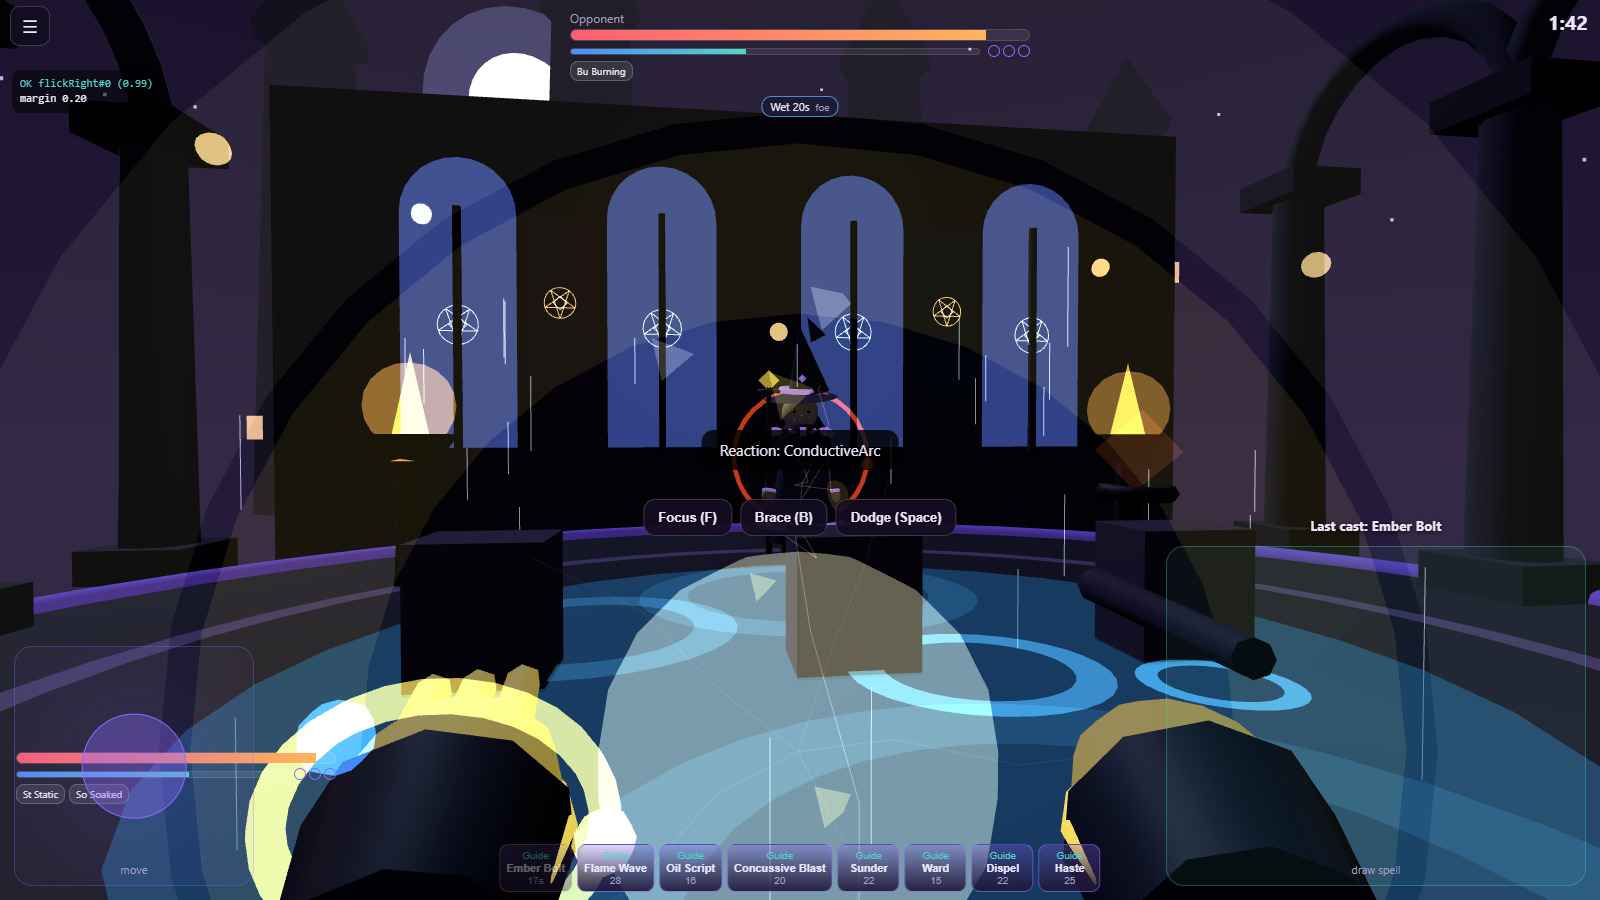
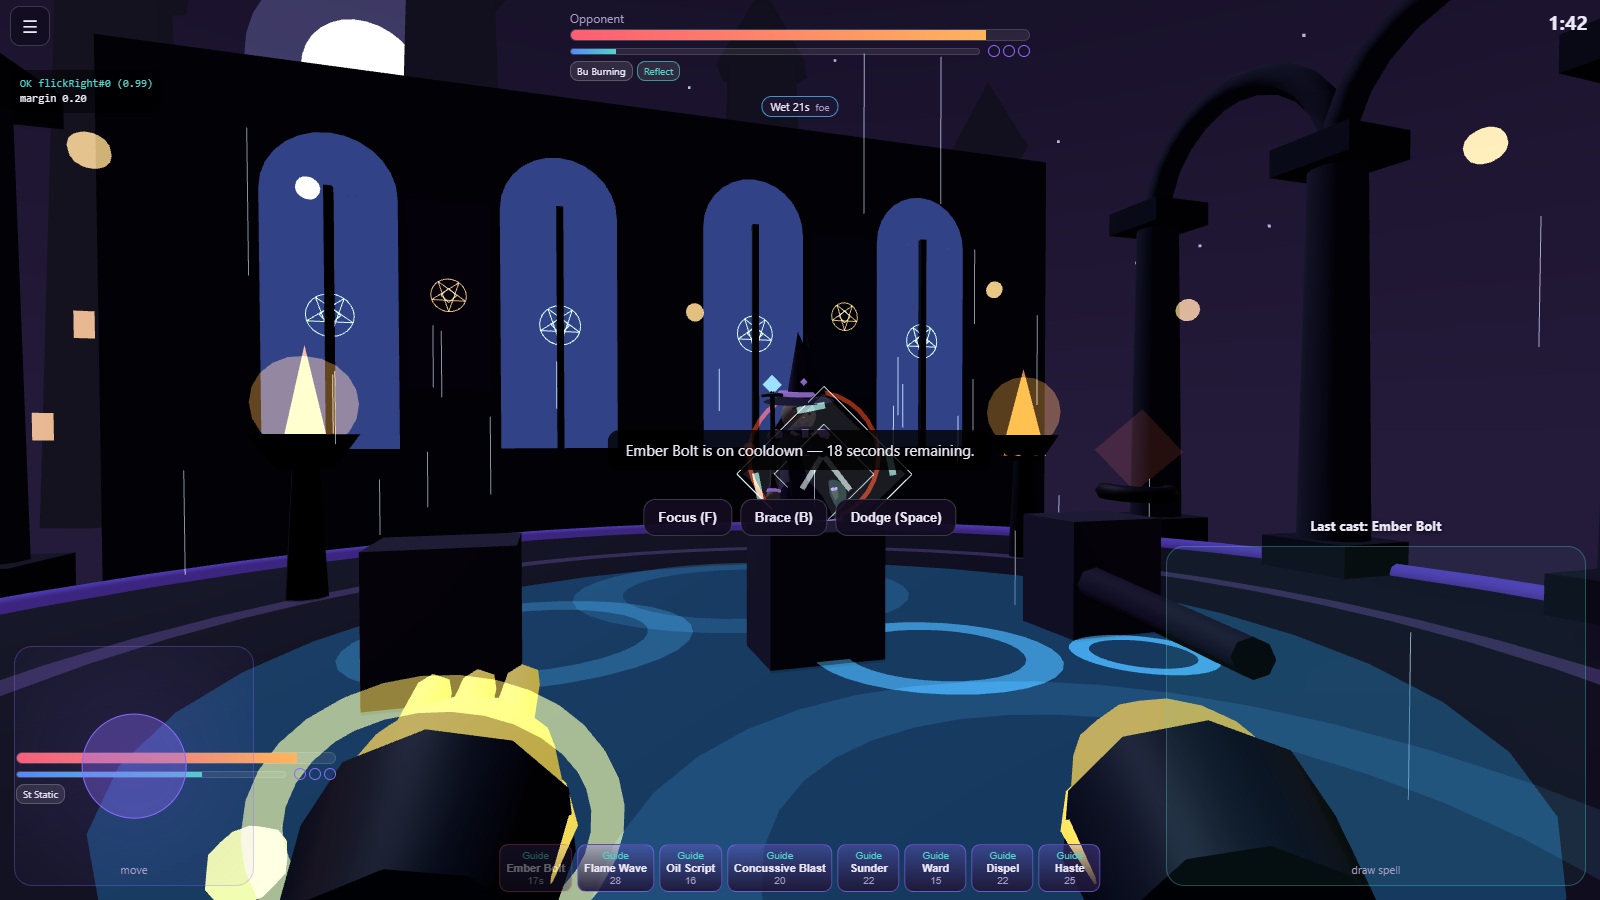
Accelerate tutorial casts and distinguish Blink
Reduce tutorial cooldowns to 35 percent, with 8 percent cooldowns for explicit repeated-cast drills. Redesign Blink as a wide horizontal-first Z and add opening-axis recognition traits so rough Blink and Quake traces remain distinct.

diff --git a/shared/src/sim/sim.js b/shared/src/sim/sim.js
@@ -84,14 +84,15 @@ export class Sim {
     this.healingDisabled = false;
     this.events = [];
     // Optional rule toggles. Defaults preserve the authoritative online/offline
-    // behaviour exactly; the solo tutorial disables the round timer and Arcane
-    // Pressure for early teaching lessons (SOLO-MODES-PLAN §4) without changing
-    // any combat resolution. `timer:false` means the round never ends on the
-    // clock; `pressure:false` means the arc never shrinks.
+    // behaviour exactly. Tutorial instances may shorten cooldowns for teaching;
+    // Practice and online omit the multiplier and therefore remain at 1.
     this.rules = {
       timer: opts.rules?.timer !== false,
       pressure: opts.rules?.pressure !== false,
       projectileTravelScale: Math.max(0.5, Math.min(4, Number(opts.rules?.projectileTravelScale) || 1)),
+      cooldownScale: Number.isFinite(Number(opts.rules?.cooldownScale))
+        ? Math.max(0.05, Math.min(1, Number(opts.rules.cooldownScale)))
+        : 1,
       sandbox: opts.rules?.sandbox === true,
       sandboxCooldowns: opts.rules?.sandboxCooldowns === true,
     };
@@ -110,6 +111,11 @@ export class Sim {
   emit(type, data) { this.events.push({ tick: this.tick, type, ...data }); }
 
   spellData(id) { return SPELLS_BY_ID[id]; }
+
+  cooldownTicks(id) {
+    const spell = this.spellData(id);
+    return spell ? sToTicks(spell.cooldown_s * this.rules.cooldownScale) : 0;
+  }
 
   hasStatus(w, name) { return !!w.statuses[name] && w.statuses[name].ticks > 0; }
 
@@ -404,7 +410,7 @@ export class Sim {
     const cost = Math.round(this.effectiveCost(w, spell));
     w.aether = Math.max(0, w.aether - cost);
     if (spell.charges) w.charges = Math.max(0, w.charges - spell.charges);
-    w.cooldowns[c.spellId] = sToTicks(spell.cooldown_s);
+    w.cooldowns[c.spellId] = this.cooldownTicks(c.spellId);
     w.recoveryTicks = sToTicks(0.15 * (1 + Math.max(0, this.moveSlow(w))));
     w.castsResolved += 1;
     w.lastActivityTick = this.tick;
@@ -758,7 +764,7 @@ export class Sim {
     if (eff.interrupt) {
       if (defender.casting) {
         this.emit('interrupt', { target: defender.id, spellId: defender.casting.spellId });
-        defender.cooldowns[defender.casting.spellId] = sToTicks(this.spellData(defender.casting.spellId).cooldown_s);
+        defender.cooldowns[defender.casting.spellId] = this.cooldownTicks(defender.casting.spellId);
         defender.casting = null;
         defender.recoveryTicks = sToTicks(CAST.rejectRecoveryS);
       }

diff --git a/shared/src/gesture/templates.js b/shared/src/gesture/templates.js
@@ -104,8 +104,9 @@ export const GESTURE_TEMPLATES = {
   circleCCW: [ // 13 Dispel — counterclockwise circle (start top, go left)
     arc(50, 50, 40, -90, -450, 24),
   ],
-  doubleStroke: [ // 14 Blink — lightning "Z" (two offset horizontals)
-    [{ x: 22, y: 26 }, { x: 64, y: 26 }, { x: 28, y: 72 }, { x: 70, y: 72 }],
+  doubleStroke: [ // 14 Blink — wide Z: right, diagonal down-left, right
+    [{ x: 10, y: 20 }, { x: 90, y: 20 }, { x: 10, y: 80 }, { x: 90, y: 80 }],
+    [{ x: 14, y: 24 }, { x: 86, y: 24 }, { x: 18, y: 76 }, { x: 88, y: 76 }],
   ],
   lowSquare: [ // 15 Stone Wall — squared U (down, across, up)
     [{ x: 16, y: 20 }, { x: 16, y: 80 }, { x: 84, y: 80 }, { x: 84, y: 20 }],
@@ -212,6 +213,13 @@ export const GESTURE_TEMPLATES = {
   ],
 };
 
+// Structural hints for pairs whose overall silhouettes can otherwise converge
+// under rough input. Blink must begin horizontally; Quake must begin vertically.
+export const GESTURE_TRAITS = {
+  doubleStroke: { startAxis: 'horizontal' },
+  quakeSlash: { startAxis: 'vertical' },
+};
+
 // Flatten into recognizer template records, tagging each with its spell id via
 // the FULL loadout gesture-key mapping so classification is spell-aware for any
 // legal online loadout (not just the starter eight).
@@ -223,7 +231,10 @@ export function buildTemplates() {
     const spellId = keyToSpellId[key];
     if (spellId == null) continue;
     variants.forEach((points, i) => {
-      records.push({ name: `${key}#${i}`, gestureKey: key, spellId, points });
+      records.push({
+        name: `${key}#${i}`, gestureKey: key, spellId, points,
+        startAxis: GESTURE_TRAITS[key]?.startAxis || null,
+      });
     });
   }
   return records;

diff --git a/test/tutorialRunner.test.js b/test/tutorialRunner.test.js
@@ -12,6 +12,7 @@ import { CAMPAIGN, CAMPAIGN_BY_ID, makeStudent } from '../client/src/tutorial/ca
 import { Recognizer } from '../shared/src/gesture/recognizer.js';
 import { buildTemplates, GESTURE_TEMPLATES } from '../shared/src/gesture/templates.js';
 import { makeLoadout } from '../shared/src/balance/loadouts.js';
+import { TICK_HZ } from '../shared/src/sim/constants.js';
 import { memoryStorage, loadProfile, defaultProfile } from '../client/src/tutorial/progress.js';
 
 function recognizerFor(lesson) {
@@ -19,7 +20,20 @@ function recognizerFor(lesson) {
 }
 
 export function run() {
-  const { ok, eq, report } = createHarness();
+  const { ok, eq, near, report } = createHarness();
+
+  // Tutorial cooldowns are intentionally shorter than duel cooldowns, with a
+  // much stronger reduction for explicit repeated-cast drills.
+  const normalLesson = new TutorialRunner('L01', { seed: 4 });
+  normalLesson.arm();
+  eq(normalLesson.sim.rules.cooldownScale, 0.35, 'ordinary tutorial lessons use 35% cooldowns');
+  const repeatLesson = new TutorialRunner('PROLOGUE', { seed: 4 });
+  repeatLesson.arm();
+  eq(repeatLesson.sim.rules.cooldownScale, 0.08, 'repeated-cast tutorial lessons use greatly reduced 8% cooldowns');
+  repeatLesson._stepOnce({ cast: 1, castQuality: 1 });
+  for (let i = 0; i < 120 && repeatLesson.sim.wizards[0].castsResolved < 1; i++) repeatLesson._stepOnce({});
+  near(repeatLesson.sim.wizards[0].cooldowns[1], Math.round(18 * 0.08 * TICK_HZ), 2,
+    'the repeated Ember drill applies the reduced cooldown in the real sim');
 
   // --- 1. every lesson is completable + no-input never completes ---------
   let scriptedOk = 0, scriptedTotal = 0, formalOk = 0, formalTotal = 0;

diff --git a/client/src/tutorial/runner.js b/client/src/tutorial/runner.js
@@ -31,14 +31,29 @@ import { CAMPAIGN_BY_ID, nextLessonId } from './campaign.js';
 
 const TICK_MS = 1000 / TICK_HZ;
 const MAX_CATCHUP = 6;
+const TUTORIAL_COOLDOWN_SCALE = 0.35;
+const REPEATED_CAST_COOLDOWN_SCALE = 0.08;
+
+function hasRepeatedCastObjective(lesson) {
+  const counts = new Map();
+  for (const objective of (lesson.objectives || [])) {
+    if (objective.expectSpell) counts.set(objective.expectSpell, (counts.get(objective.expectSpell) || 0) + 1);
+    const match = String(objective.predicate || '').match(/^(?:land|cast)-spell:\d+:(\d+)$/);
+    if (match && Number(match[1]) >= 2) return true;
+  }
+  return [...counts.values()].some((count) => count >= 2);
+}
 
 // Build the shared Sim rules for a lesson (kept in one place so the initial arm
 // and every series-round re-arm stay identical).
 function lessonRules(lesson) {
+  const cooldownScale = lesson.cooldownScale
+    ?? (hasRepeatedCastObjective(lesson) ? REPEATED_CAST_COOLDOWN_SCALE : TUTORIAL_COOLDOWN_SCALE);
   return {
     timer: !!lesson.timerEnabled,
     pressure: !!lesson.pressureEnabled,
     projectileTravelScale: lesson.projectileTravelScale || 1,
+    cooldownScale,
   };
 }
 

diff --git a/shared/src/gesture/recognizer.js b/shared/src/gesture/recognizer.js
@@ -90,6 +90,16 @@ export function distanceToScore(d) {
   return Math.max(0, 1 - d * 2.2);
 }
 
+function startAxisFit(points, axis) {
+  if (!axis || points.length < 2) return 1;
+  const end = points[Math.max(1, Math.floor((points.length - 1) * 0.25))];
+  const dx = Math.abs(end.x - points[0].x);
+  const dy = Math.abs(end.y - points[0].y);
+  const total = dx + dy;
+  if (total < 1e-6) return 0.5;
+  return axis === 'horizontal' ? dx / total : dy / total;
+}
+
 export class Recognizer {
   constructor(templates = [], opts = {}) {
     this.n = opts.n || DEFAULT_N;
@@ -98,6 +108,7 @@ export class Recognizer {
     this.minPoints = opts.minPoints ?? 3;
     this.templates = templates.map((t) => ({
       name: t.name, spellId: t.spellId, gestureKey: t.gestureKey,
+      startAxis: t.startAxis || null,
       pts: preprocess(t.points, this.n),
     }));
   }
@@ -123,7 +134,8 @@ export class Recognizer {
     const q = preprocess(raw, this.n);
     const scores = this.templates.map((t) => ({
       spellId: t.spellId, name: t.name, gestureKey: t.gestureKey,
-      score: distanceToScore(meanDistance(q, t.pts)),
+      score: Math.max(0, distanceToScore(meanDistance(q, t.pts))
+        - (1 - startAxisFit(q, t.startAxis)) * 0.22),
     })).sort((a, b) => b.score - a.score);
 
     diag.scores = scores;

diff --git a/test/gesture.test.js b/test/gesture.test.js
@@ -41,6 +41,17 @@ export function run() {
   }
   eq(fullCorrect, fullTotal, `full-roster duel recognition identifies every canonical glyph (${fullCorrect}/${fullTotal})`);
 
+  let blinkQuakeCorrect = 0;
+  for (const [key, expected] of [['doubleStroke', 14], ['quakeSlash', 34]]) {
+    for (let seed = 1; seed <= 100; seed++) {
+      const rough = jitter(GESTURE_TEMPLATES[key][0], 20, seed * 193);
+      const result = full.recognize(rough);
+      if (result.accepted && result.spellId === expected) blinkQuakeCorrect++;
+    }
+  }
+  eq(blinkQuakeCorrect, 200,
+    'rough Blink and Quake traces remain distinct through their horizontal/vertical opening strokes');
+
   // Each starter gesture's own template classifies to its spell, even jittered.
   const keyToId = {};
   for (const [id, key] of Object.entries(STARTER_GESTURE_KEYS)) keyToId[key] = Number(id);

diff --git a/shared/src/balance/spellData.generated.js b/shared/src/balance/spellData.generated.js
@@ -1,12 +1,12 @@
 // AUTO-GENERATED by scripts/generate-spells.js — DO NOT EDIT BY HAND.
-// Source: design/spells.csv  (checksum bf855eb0)
+// Source: design/spells.csv  (checksum 4723a2e6)
 // Regenerate with: npm run gen:spells
 //
 // The full canonical 40-spell roster. Phase 1 exposes a curated 8-spell
 // starter loadout (see ./loadouts.js); the rest is data ready for
 // Phase 2/3 without re-typing any numbers.
 
-export const SPELLS_SOURCE_CHECKSUM = "bf855eb0";
+export const SPELLS_SOURCE_CHECKSUM = "4723a2e6";
 
 export const SPELL_CATALOG = [
   {"id":1,"name":"Ember Bolt","school":"Ember","category":"Offensive","gesture":"right flick","aether":12,"charges":0,"cooldown_s":18,"min_cast_s":0.25,"loadout_points":1,"effect":"8 damage; apply Burning for 9 sec","setup_or_payoff":"Build Ember resonance; ignites Oil","counters":"Ward; Gust; Reflect","secret":false,"counterList":["Ward","Gust","Reflect"]},
@@ -22,7 +22,7 @@ export const SPELL_CATALOG = [
   {"id":11,"name":"Barrier Dome","school":"Arcane","category":"Defensive","gesture":"clockwise circle","aether":30,"charges":0,"cooldown_s":18,"min_cast_s":0.72,"loadout_points":2,"effect":"360 degree barrier for 9 sec","setup_or_payoff":"Caster cannot use offense while active","counters":"Wait; Sunder; Quake","secret":false,"counterList":["Wait","Sunder","Quake"]},
   {"id":12,"name":"Reflect","school":"Gale","category":"Defensive","gesture":"check mark","aether":20,"charges":0,"cooldown_s":8,"min_cast_s":0.3,"loadout_points":2,"effect":"Reflect projectile during 3.6 sec window","setup_or_payoff":"Perfect timing grants half Sigil Charge","counters":"Area spell; feint; delayed projectile","secret":false,"counterList":["Area spell","feint","delayed projectile"]},
   {"id":13,"name":"Dispel","school":"Arcane","category":"Defensive","gesture":"counterclockwise circle","aether":22,"charges":0,"cooldown_s":10,"min_cast_s":0.55,"loadout_points":1,"effect":"Remove two harmful statuses or one zone edge","setup_or_payoff":"Destroys Mark and setup investment","counters":"Bait it; reapply later; direct damage","secret":false,"counterList":["Bait it","reapply later","direct damage"]},
-  {"id":14,"name":"Blink","school":"Arcane","category":"Defensive","gesture":"double short directional strokes","aether":18,"charges":0,"cooldown_s":9,"min_cast_s":0.3,"loadout_points":2,"effect":"Short movement burst; invisible for 3 sec with brief evade","setup_or_payoff":"Escapes Root but not already resolved damage","counters":"Track landing; area zone; delay release","secret":false,"counterList":["Track landing","area zone","delay release"]},
+  {"id":14,"name":"Blink","school":"Arcane","category":"Defensive","gesture":"wide Z: right then diagonal down-left then right","aether":18,"charges":0,"cooldown_s":9,"min_cast_s":0.3,"loadout_points":2,"effect":"Short movement burst; invisible for 3 sec with brief evade","setup_or_payoff":"Escapes Root but not already resolved damage","counters":"Track landing; area zone; delay release","secret":false,"counterList":["Track landing","area zone","delay release"]},
   {"id":15,"name":"Stone Wall","school":"Stone","category":"Defensive","gesture":"low square","aether":26,"charges":0,"cooldown_s":48,"min_cast_s":0.78,"loadout_points":2,"effect":"Create destructible line-of-sight cover for up to 24 sec","setup_or_payoff":"Can channel Focus behind it","counters":"Quake; Fireball; reposition","secret":false,"counterList":["Quake","Fireball","reposition"]},
   {"id":16,"name":"Haste","school":"Gale","category":"Buff","gesture":"upward spiral","aether":25,"charges":0,"cooldown_s":36,"min_cast_s":0.72,"loadout_points":2,"effect":"15 percent movement and recovery speed for 18 sec","setup_or_payoff":"Counters Chilled and supports rushdown","counters":"Dispel; Weaken; force defense","secret":false,"counterList":["Dispel","Weaken","force defense"]},
   {"id":17,"name":"Aether Surge","school":"Arcane","category":"Buff","gesture":"figure eight","aether":30,"charges":0,"cooldown_s":36,"min_cast_s":1.1,"loadout_points":2,"effect":"Gain 5 extra Aether/sec for 18 sec after channel","setup_or_payoff":"Economy setup with interrupt risk","counters":"Concussive Blast; Static; Quake","secret":false,"counterList":["Concussive Blast","Static","Quake"]},

diff --git a/test/packaging.test.js b/test/packaging.test.js
@@ -123,13 +123,13 @@ ok(Array.isArray(cap.server.allowNavigation) && cap.server.allowNavigation.inclu
 
 const appGradle = read('android/app/build.gradle');
 ok(appGradle.includes('applicationId "com.configmancooper.aetherglyph"'), 'gradle applicationId');
-ok(appGradle.includes('versionCode 10300'), 'gradle versionCode 10300');
+ok(appGradle.includes('versionCode 10301'), 'gradle versionCode 10301');
 ok(appGradle.includes(`versionName "${version}"`), `gradle versionName ${version} matches package.json`);
 ok(appGradle.includes('keystore.properties'), 'gradle reads keystore.properties for signing');
 ok(appGradle.includes('signingConfig signingConfigs.release'), 'gradle applies the release signing config when present');
 eq(readJson('package-lock.json').version, version, 'package-lock version matches package.json');
 const publishingGuide = read('PUBLISHING-ANDROID.md');
-ok(publishingGuide.includes('| Version code | `10300` |'), 'publishing guide versionCode 10300');
+ok(publishingGuide.includes('| Version code | `10301` |'), 'publishing guide versionCode 10301');
 ok(publishingGuide.includes(`| Version name | \`${version}\` |`), `publishing guide versionName ${version}`);
 
 const vars = read('android/variables.gradle');

diff --git a/client/sw.js b/client/sw.js
@@ -10,7 +10,7 @@
 // unaffected. CACHE_VERSION is tied to the app version and is asserted by
 // test/packaging.test.js; bump it in lockstep with package.json "version".
 
-const CACHE_VERSION = '1.3.0';
+const CACHE_VERSION = '1.3.1';
 const CACHE_NAME = `aetherglyph-shell-v${CACHE_VERSION}`;
 
 // Core app shell precached on install (best-effort; a miss never fails install).

diff --git a/shared/src/protocol/version.js b/shared/src/protocol/version.js
@@ -4,7 +4,7 @@
 import { SPELLS_SOURCE_CHECKSUM } from '../balance/spellData.generated.js';
 
 export const PROTOCOL_VERSION = 2;
-export const BALANCE_VERSION = 11;
+export const BALANCE_VERSION = 12;
 export const APP_PHASE = 5;
 
 // The spell-data checksum ties the running build to a specific roster snapshot.

diff --git a/README.md b/README.md
@@ -4,9 +4,14 @@ An Android-first, real-time 1v1 wizard dueling game built around drawing spell g
 
 ## Project status
 
-**Version 1.3.0 — feature complete.** The final solo phase (Practice vs AI +
+**Version 1.3.1 — feature complete.** The final solo phase (Practice vs AI +
 coaching) is implemented on top of the offline campaign, the authoritative online
-service, and the deterministic shared simulation. In 1.3.0, Practice and online
+service, and the deterministic shared simulation. Version 1.3.1 reduces tutorial
+cooldowns to 35% of their normal values, and lessons requiring the same spell
+multiple times reduce them to 8%, removing long waits between teaching casts.
+It also redraws Blink as a wide horizontal-first Z and gives Blink/Quake explicit
+opening-direction checks, preventing rough Blink traces from becoming Quake.
+Practice and online retain full canonical cooldowns. In 1.3.0, Practice and online
 duels recognize the **full 40-spell roster**: the selected eight spells are dotted
 guide shortcuts only, and every unselected spell remains castable when its normal
 Aether, Sigil Charge, cooldown, and setup requirements are met. 1.2.2 makes **Blink conceal its
@@ -110,8 +115,8 @@ optional academies, the final exam, medals, and secrets never gate it.
 
 **Capacitor Android / Google Play packaging** stages the no-build web app into a
 Capacitor `webDir` and builds a signable Android App Bundle (app id
-`com.configmancooper.aetherglyph`, API 24 → 36, landscape, versionCode 10300 /
-versionName 1.3.0). Online play connects to a configurable authoritative service
+`com.configmancooper.aetherglyph`, API 24 → 36, landscape, versionCode 10301 /
+versionName 1.3.1). Online play connects to a configurable authoritative service
 (default `https://aetherglyph.onrender.com`); same-origin web deployments stay
 same-origin.
 
@@ -361,7 +366,7 @@ run in the browser and in the app.
   localhost, so Capacitor and dev cache iteration are unaffected.
 - **Capacitor Android project (checked in).** `com.configmancooper.aetherglyph`,
   "Aetherglyph: Arcane Duels", landscape, `minSdk 24` / `compile+target 36`,
-  `versionCode 10300` / `versionName 1.3.0`, no cleartext production traffic,
+  `versionCode 10301` / `versionName 1.3.1`, no cleartext production traffic,
   `INTERNET` + `ACCESS_NETWORK_STATE` only, Render navigation allowed, native
   back-button + background/resume + haptics via `@capacitor/app` and
   `@capacitor/haptics`.

diff --git a/PUBLISHING-ANDROID.md b/PUBLISHING-ANDROID.md
@@ -34,8 +34,8 @@ changed to paid.) No ads. No in-app purchases.
 | --- | --- |
 | App id | `com.configmancooper.aetherglyph` |
 | App name | Aetherglyph: Arcane Duels |
-| Version code | `10300` |
-| Version name | `1.3.0` |
+| Version code | `10301` |
+| Version name | `1.3.1` |
 | Minimum Android | 7.0 / API 24 |
 | Target / compile Android | API 36 |
 | Orientation | Landscape |